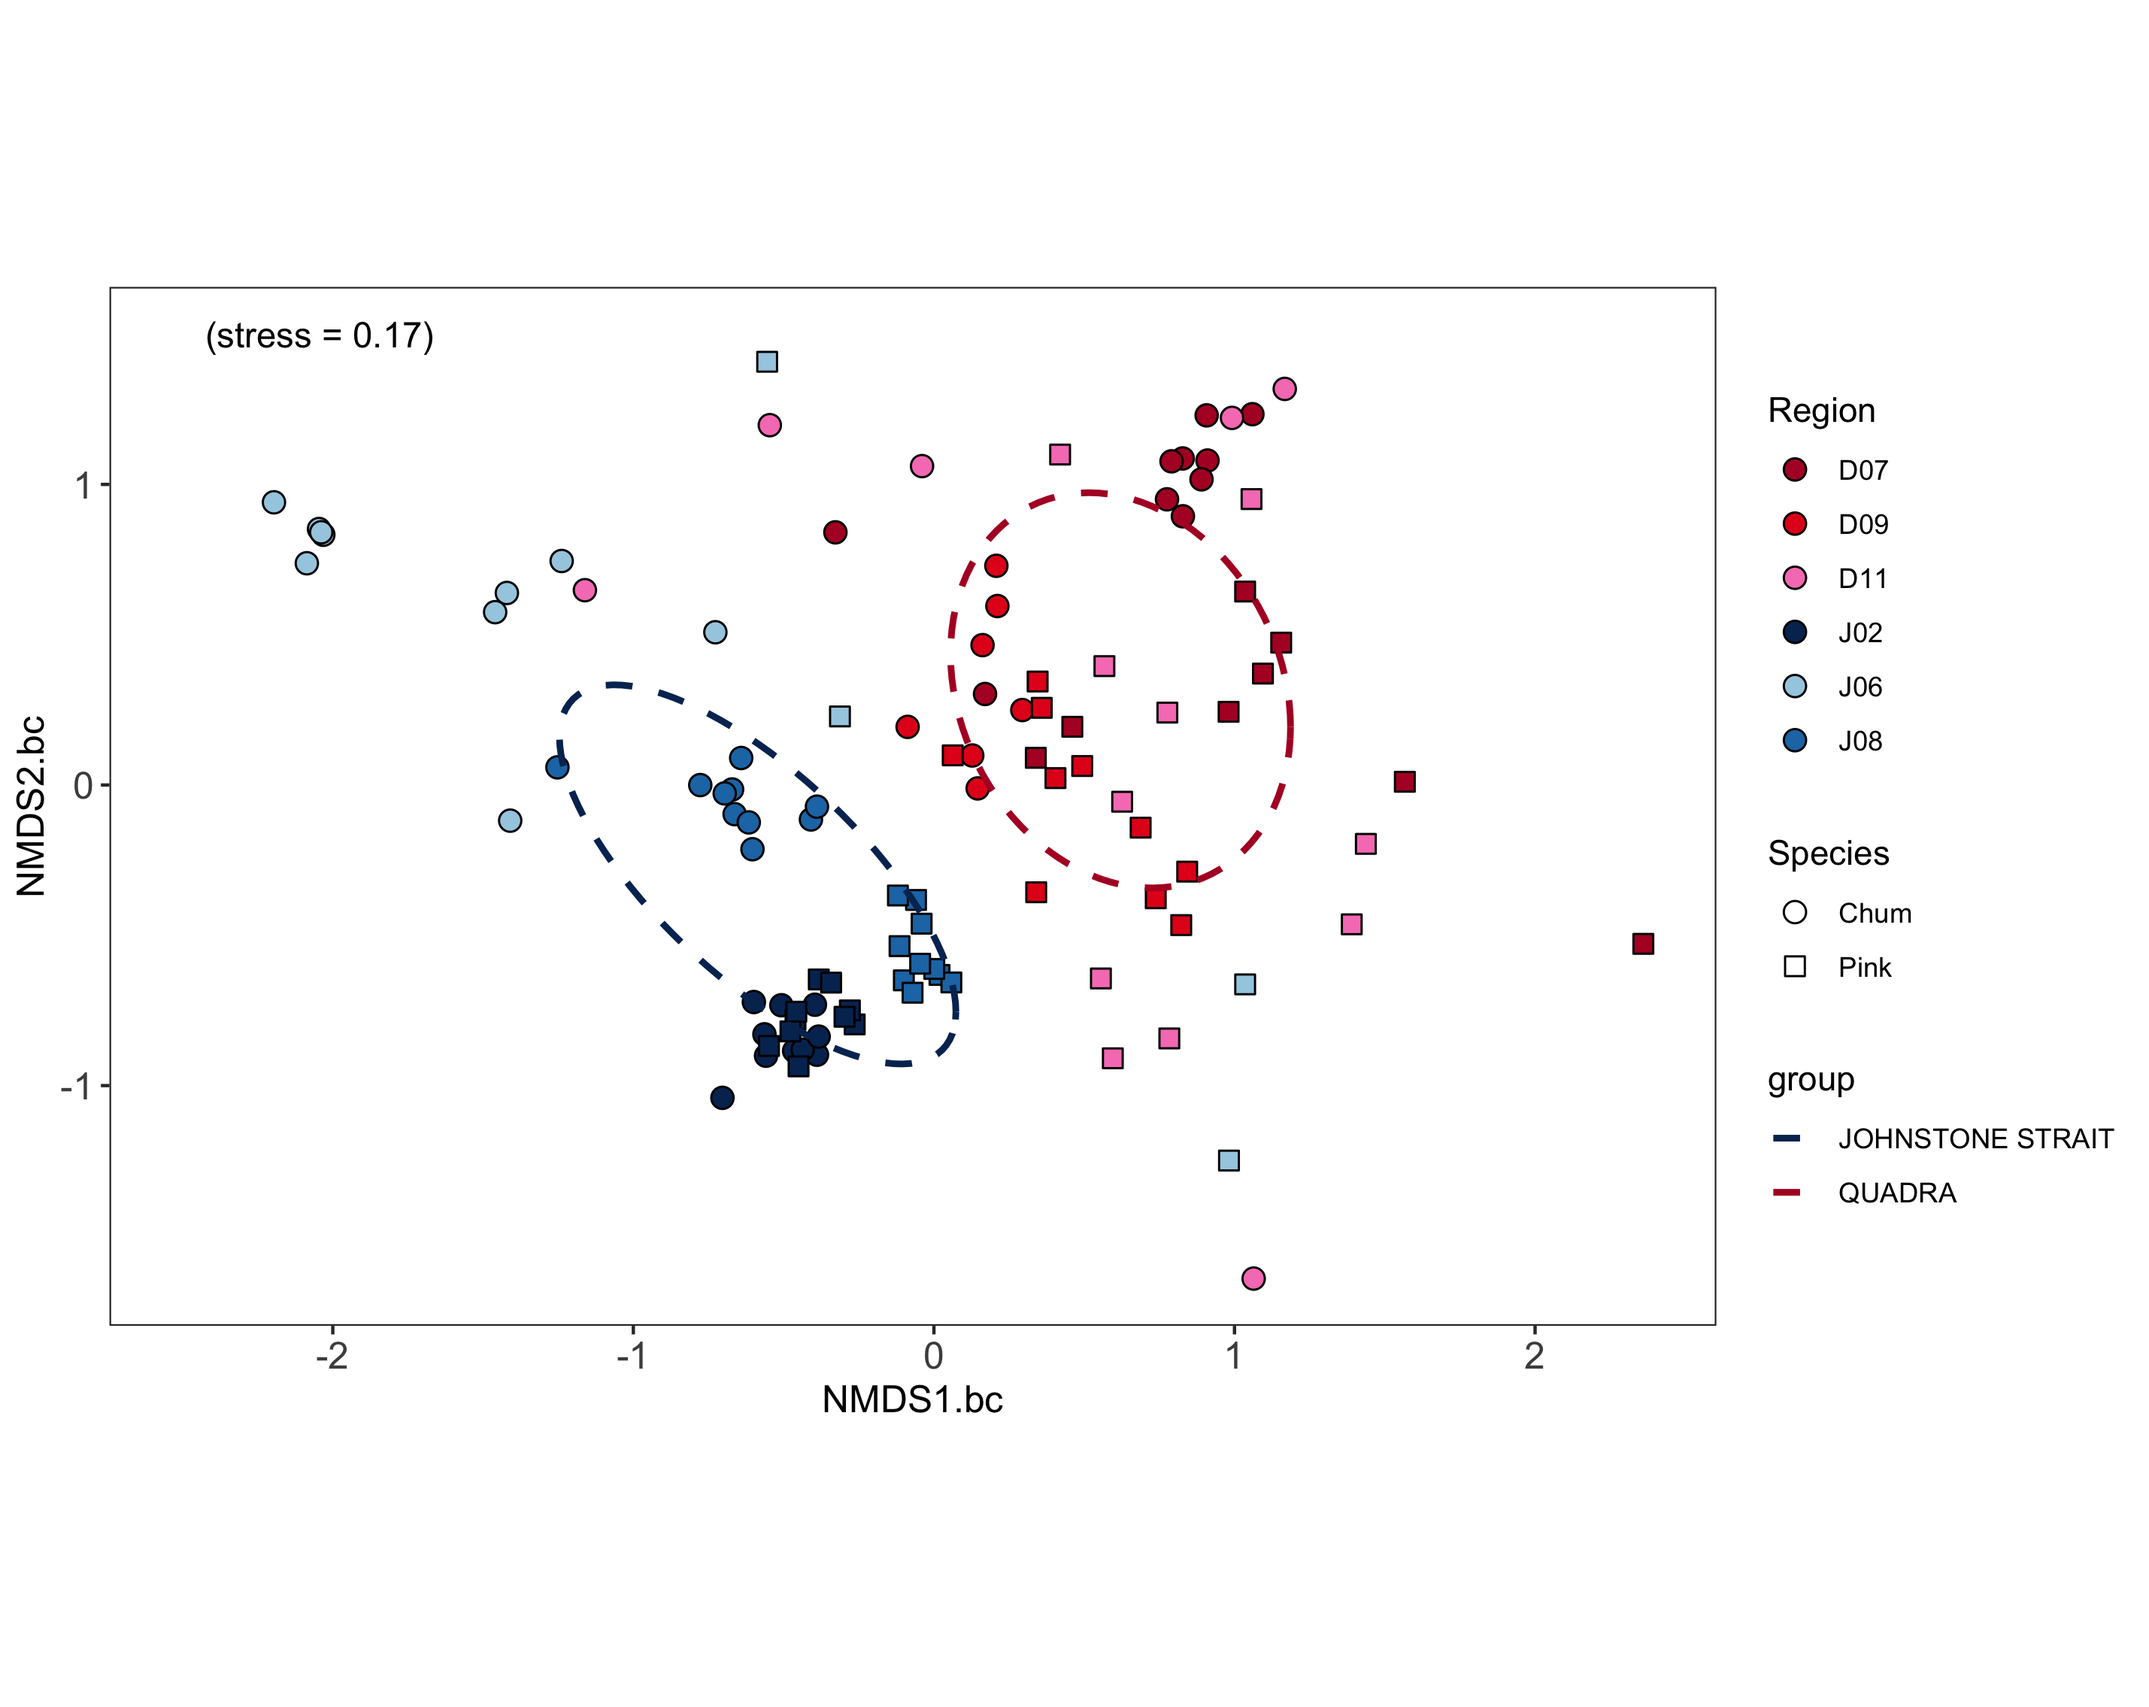
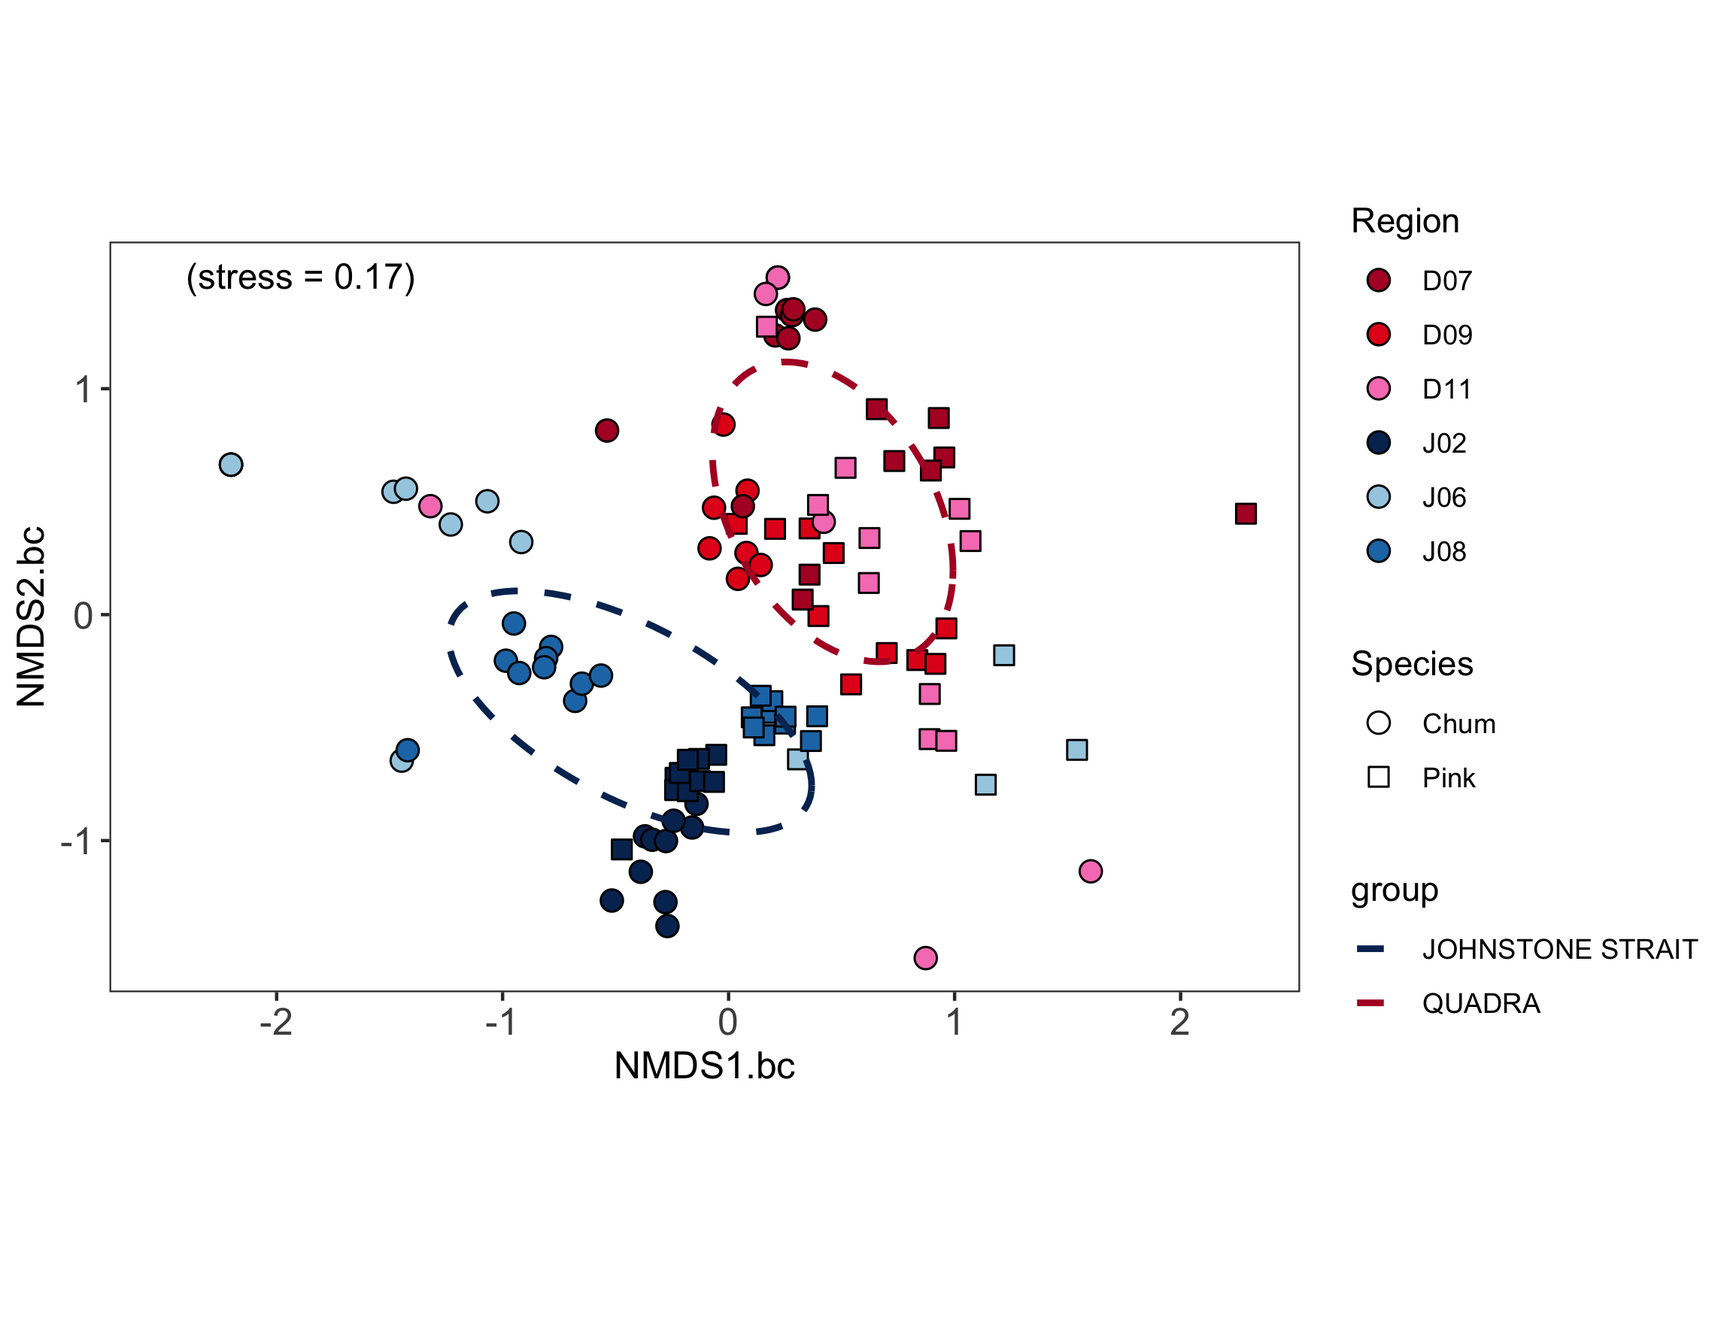
update analysis with correct taxa + transformations

diff --git a/README.md b/README.md
@@ -20,6 +20,6 @@ ___
   
   * Upload :white_check_mark:
 
-* Create folders for results, etc.
+* Create folders for results, etc. :white_check_mark:
 
 * Anything else recommended [here](https://journals.plos.org/ploscompbiol/article?id=10.1371/journal.pcbi.1005510)
